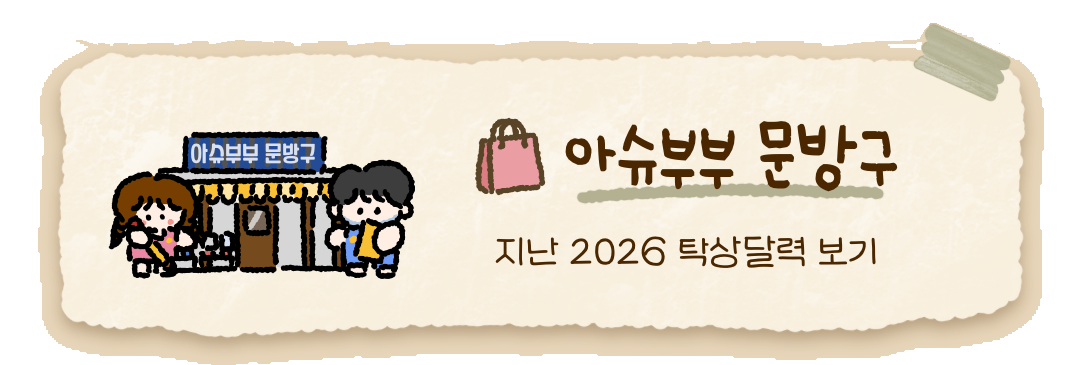
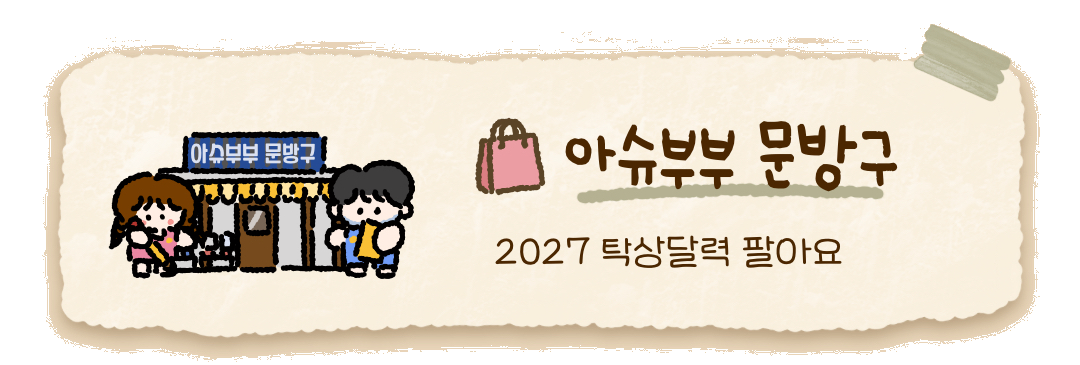
link update

diff --git a/links.js b/links.js
@@ -9,7 +9,7 @@ window.AHSUE_LINKS = {
     youtube: { label: "아슈부부 유튜브", url: "https://www.youtube.com/@ahsue_23" },
     blog: { label: "아현의 블로그", url: "https://blog.naver.com/ahsue_23" },
     studio: { label: "진수의 생각창고", url: "https://zinesue.github.io/" },
-    fourth: { label: "아슈부부 문방구", url: "https://smartstore.naver.com/ahsue_23/products/12590545490" },
+    fourth: { label: "아슈부부 문방구", url: "https://smartstore.naver.com/ahsue_23/products/13842799408" },
   },
 
   // '함께하는 이야기' 카드: 아래 항목을 복사하거나 삭제하세요.

diff --git a/index.html b/index.html
@@ -41,7 +41,7 @@
         </a>
         <a class="featured-link" data-card="fourth" href="https://smartstore.naver.com/ahsue_23/products/12590545490">
           <img class="artwork" src="./assets/artwork/featured-shop.webp" width="1080" height="365" alt="" draggable="false">
-          <span class="visually-hidden">아슈부부 문방구 — 지난 2026 탁상달력 보기</span>
+          <span class="visually-hidden">아슈부부 문방구 — 2027 탁상달력 팔아요</span>
           <span class="featured-hit-area" aria-hidden="true"></span>
         </a>
       </nav>
